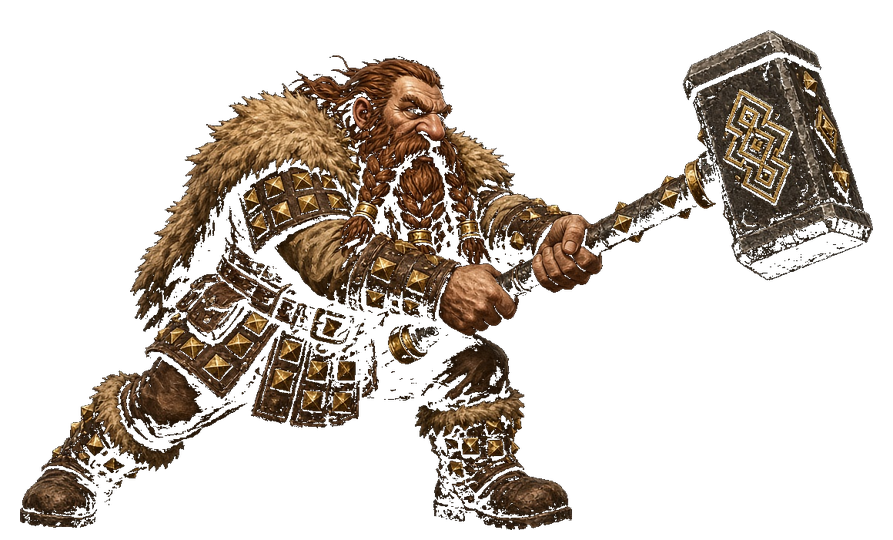
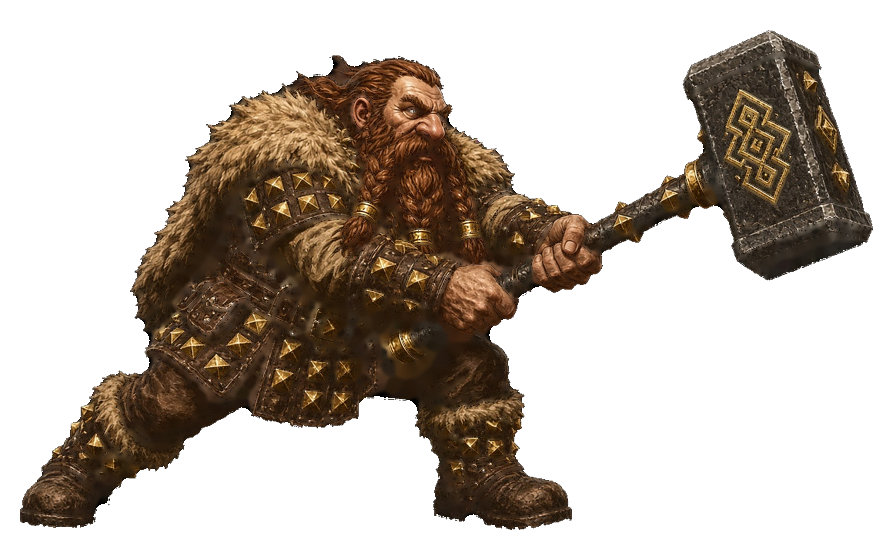
Repair the Macar anchor painting: no see-through holes
dwarf_macar_atk_contact.png was exported on a black matte and keyed by
darkness (e4838ff "Punch black export matte"). The key punched ~60k px
of dark paint out of the figure — beard shading, tunic, fur, legs, the
maul head — so the dungeon floor showed through Macar in play. No
un-keyed copy exists in the repo.

Repair (from the file itself):
- rebuild the true silhouette: paint (alpha>=40), close cracks up to
  10px, fill enclosed space; the wide gap between the legs stays open
- inside the silhouette (minus a 2px anti-aliased rim) every pixel is
  solid; keyed-out or near-black remnants are repainted by seeding
  from well-painted neighbours only, then Telea inpaint, blended with
  any surviving partial paint so brushwork is kept where it exists
- stray matte specks outside the figure cleared; 58 rim specks sealed

MacarAnchor test now fails if any enclosed see-through pocket returns
(old file: 11,948 px; repaired: 0). 107/107.

Claude-Session: https://claude.ai/code/session_011nVj1XBtfYPNqrMjMF1Btn

diff --git a/src/combat/MacarAnchor.test.js b/src/combat/MacarAnchor.test.js
@@ -37,5 +37,24 @@ const wa=html.match(/const WORLD_ART_KEYS=\{[\s\S]*?\n\};/);
 assert(wa && cats.every(k=>new RegExp("'"+k+"'").test(wa[0])),
   'world-ready keys still name the Macar slots the loader waits for (all served by the anchor)');
 
+/* Painting intact: the black-matte key once punched ~60k px of dark paint out
+   of the figure (holes showed the floor through Macar). No enclosed
+   see-through pocket may remain inside the anchor's silhouette. */
+{
+  const {readRgba}=require('../qa/pngRgba');
+  const {w,h,data}=readRgba(path.join(creatures, MacarAnchor.ANCHOR));
+  const clear=new Uint8Array(w*h);
+  for(let i=0;i<w*h;i++) clear[i]=data[i*4+3]<128?1:0;
+  // flood the transparent region reachable from the canvas edge
+  const outside=new Uint8Array(w*h), q=[];
+  const push=(x,y)=>{ const k=y*w+x; if(clear[k]&&!outside[k]){ outside[k]=1; q.push(k); } };
+  for(let x=0;x<w;x++){ push(x,0); push(x,h-1); }
+  for(let y=0;y<h;y++){ push(0,y); push(w-1,y); }
+  while(q.length){ const k=q.pop(), x=k%w, y=(k/w)|0;
+    if(x>0) push(x-1,y); if(x<w-1) push(x+1,y); if(y>0) push(x,y-1); if(y<h-1) push(x,y+1); }
+  let holes=0; for(let i=0;i<w*h;i++) if(clear[i]&&!outside[i]) holes++;
+  assert(holes<=40, 'anchor painting has no see-through holes inside the figure ('+holes+' enclosed clear px)');
+}
+
 if(failed){ console.error('\n'+failed+' failed'); process.exit(1); }
 console.log('\nMacar anchor lock checks passed');
